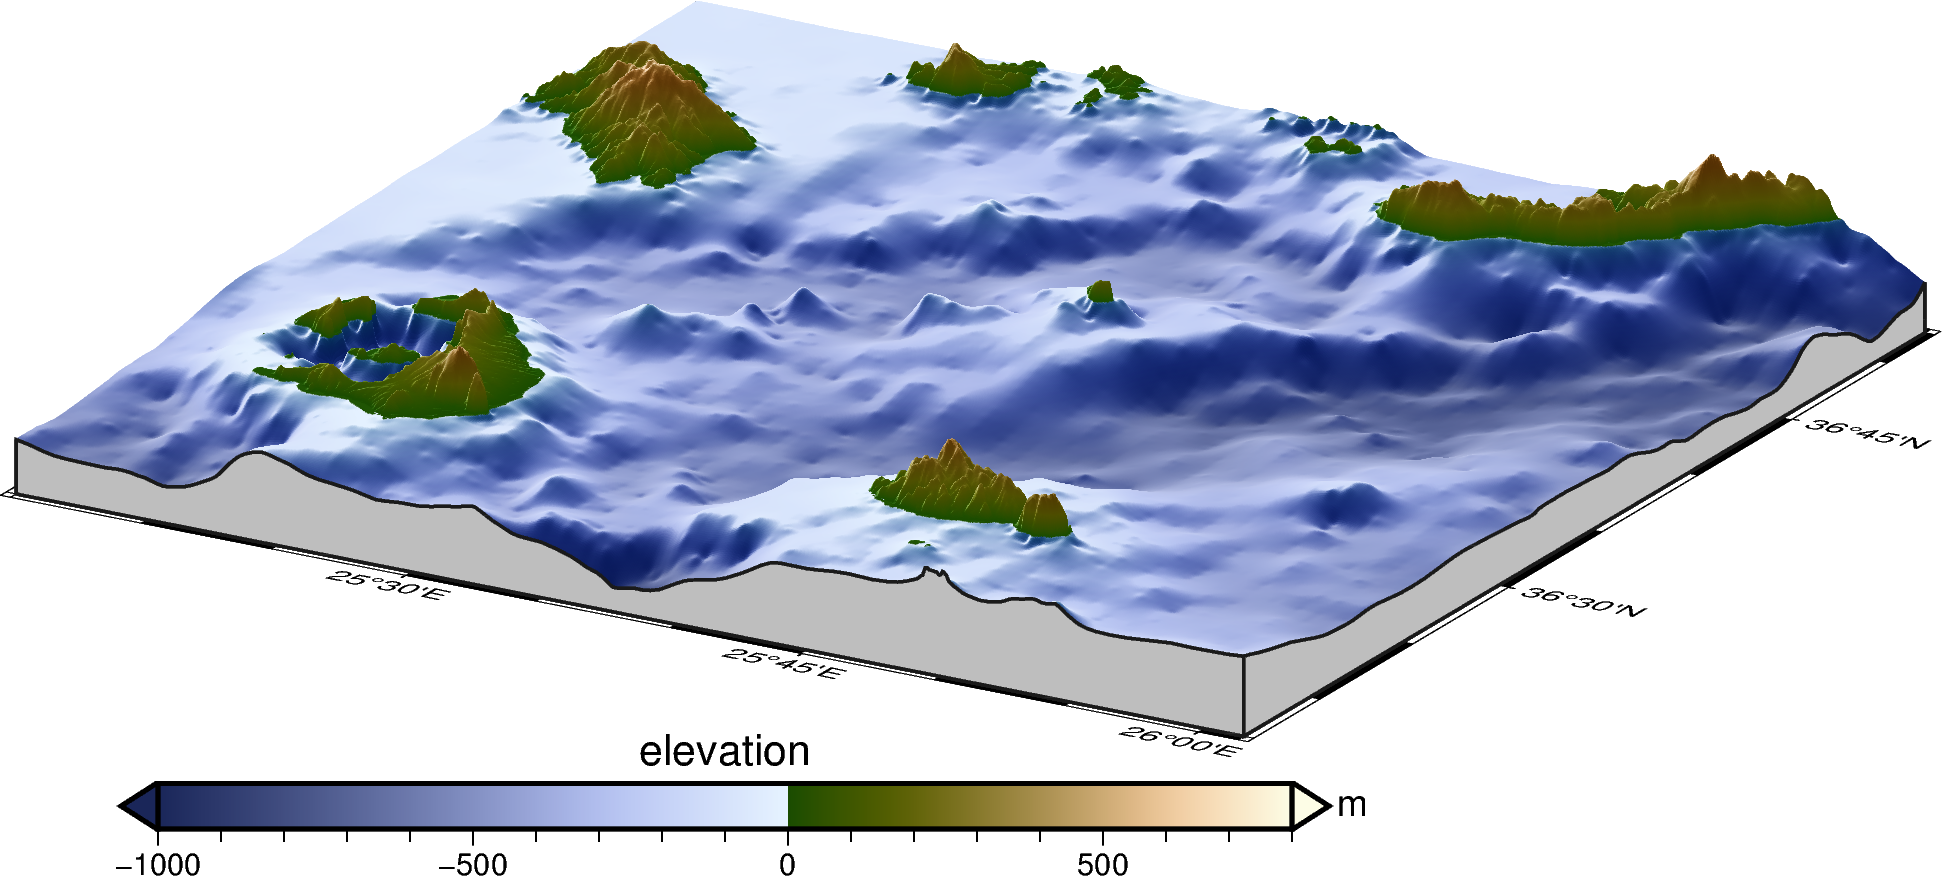
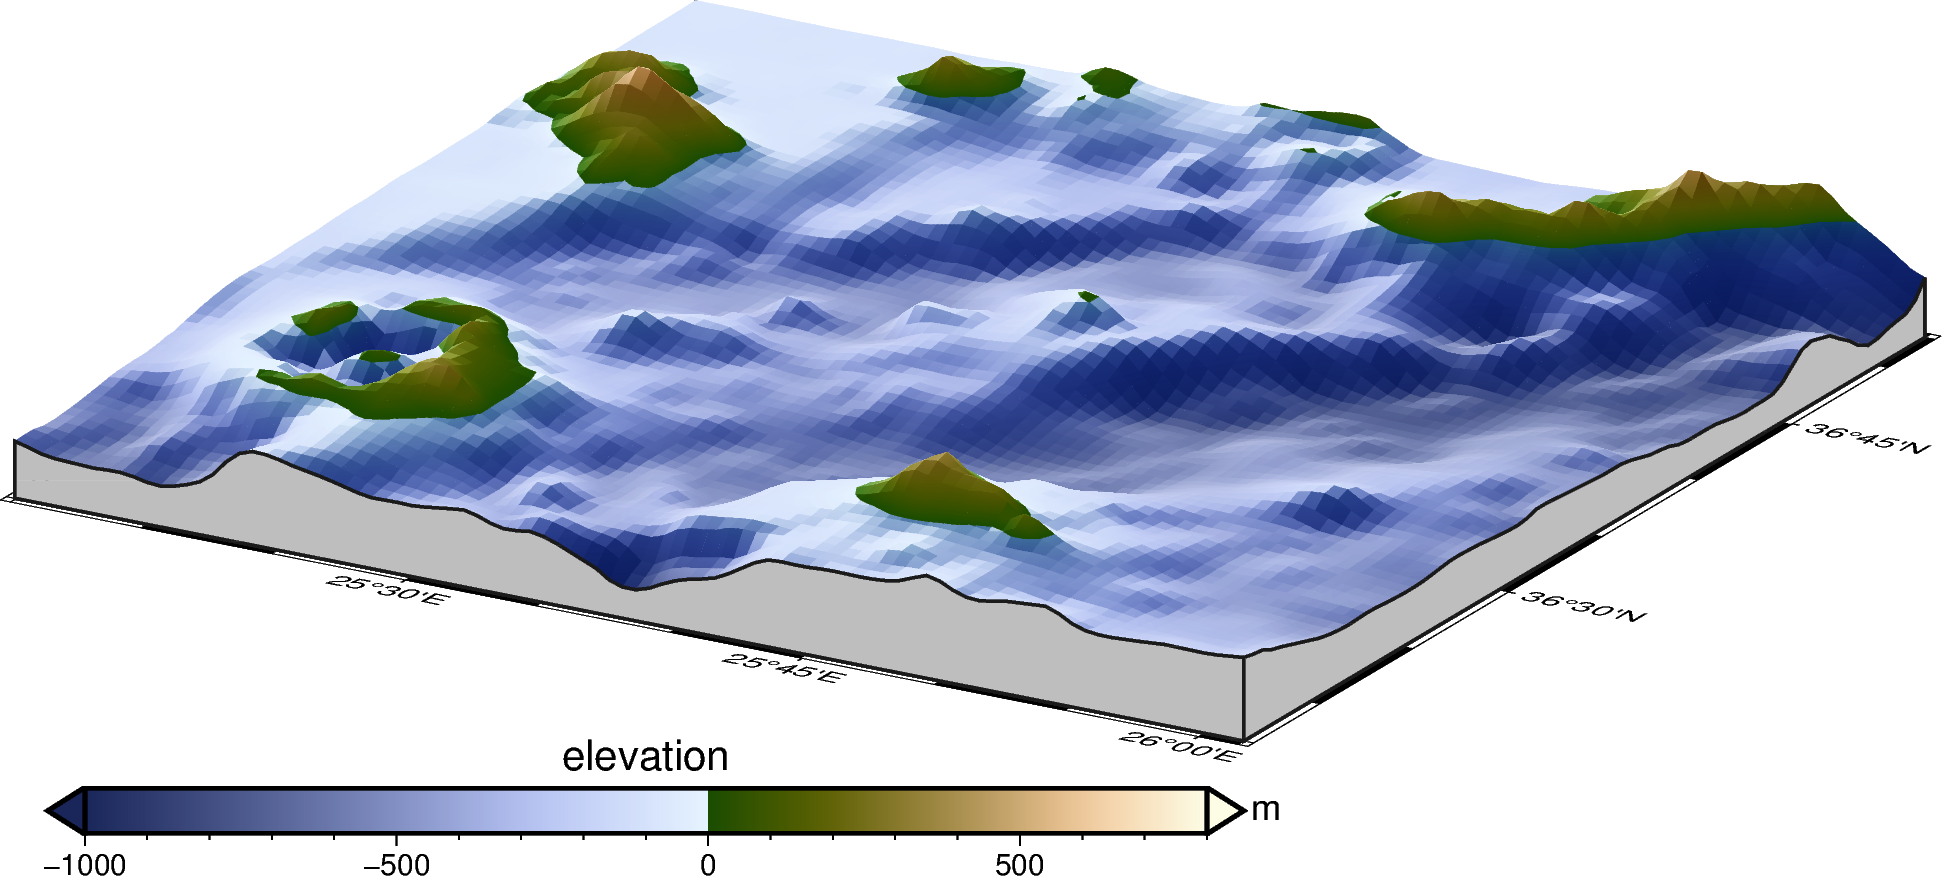
Use Position class | Reduce resolution for surface plot

diff --git a/015_santorini_earthquakes/santorini_earthquakes.py b/015_santorini_earthquakes/santorini_earthquakes.py
@@ -111,8 +111,8 @@ df_eq = df_eq_raw[df_eq_raw["date_time"] >= start_date_data]
 # Create plots for elevation
 # -----------------------------------------------------------------------------
 # Download elevation grid
-grd_ele = gmt.datasets.load_earth_relief(region=region_ele, resolution="15s")
-grd_surf = gmt.datasets.load_earth_relief(region=region_surf, resolution="03s")
+grd_ele = gmt.datasets.load_earth_relief(region=region_ele, resolution="30s") # 15s
+grd_surf = gmt.datasets.load_earth_relief(region=region_surf, resolution="30s") # 03s
 
 # -----------------------------------------------------------------------------
 # 2-D map
@@ -122,7 +122,7 @@ fig_ele.basemap(projection="M12c", region=region_ele, frame=["WSne", "a1f0.5"])
 gmt.makecpt(cmap="oleron", series=[-1000, 2000])
 fig_ele.grdimage(grid=grd_ele, cmap=True, shading=True)
 fig_ele.colorbar(
-    frame=["xa500f100+lElevation", "y+lm"],
+    frame=["xa500f100+lelevation", "y+lm"],
     position=Position("BC", cstype="outside", offset=("0c", "1.3c")),
     bg_triangle=True,
     fg_triangle=True,
@@ -144,7 +144,7 @@ fig_name = "santorini_map_elevation"
 print(fig_name)
 
 # -----------------------------------------------------------------------------
-# 3-D plot - takes some time
+# 3-D plot - takes some time for higher resolutions
 fig_surf = gmt.Figure()
 fig_surf.basemap(
     projection="M12c",
@@ -164,12 +164,21 @@ fig_surf.grdview(
     plane="-1000+ggrey",
     facade_pen="gray10",
 )
-fig_surf.colorbar(frame=["xa500f100+lElevation", "y+lm"], position="+e0.3c+o0c/0.4c+ml")
+fig_surf.colorbar(
+    frame=["xa500f100+lelevation", "y+lm"],
+    position=Position("BC", cstype="outside", anchor="TR", offset=("-2c", "0.4c")),
+    length="9.5c",
+    orientation="horizontal",
+    bg_triangle=True,
+    fg_triangle=True,
+    triangle_height="0.3c",
+    move_text="label",
+)
 
 fig_surf.show()
 fig_name = "santorini_surface_elevation"
 # for ext in ["png"]:  # "pdf", "eps"
-    # fig_surf.savefig(fname=f"{path_out}/{fig_name}.{ext}")
+#     fig_surf.savefig(fname=f"{path_out}/{fig_name}.{ext}")
 print(fig_name)
 
 
@@ -233,9 +242,7 @@ for i_day, day in enumerate(rrule(DAILY, dtstart=start_date_plot, until=end_date
             z_label = "negative depth / km"
 
 # -----------------------------------------------------------------------------
-        fig2d.basemap(
-            projection="M12c", region=region, frame=["af", f"{frame}+t{title}"]
-        )
+        fig2d.basemap(projection="M12c", region=region, frame=["af", f"{frame}+t{title}"])
         fig2d.coast(land=color_land, water=color_water, shorelines=f"1/0.5p,{color_sl}")
 
         # Mark Santorini
@@ -245,7 +252,11 @@ for i_day, day in enumerate(rrule(DAILY, dtstart=start_date_plot, until=end_date
         with gmt.config(FONT="15p"):
             fig2d.colorbar(
                 frame=f"x{cb_x_afg}+l{cb_label}",
-                position="+o0c/1.5c+e0.3c+ml",
+                position=Position("BC", cstype="outside", offset=("0c", "1.5c")),
+                bg_triangle=True,
+                fg_triangle=True,
+                triangle_height="0.3c",
+                move_text="label",
                 cmap=cmap_fill,
             )
         fig2d.plot(
@@ -282,7 +293,10 @@ for i_day, day in enumerate(rrule(DAILY, dtstart=start_date_plot, until=end_date
         )
         fig3d.colorbar(
             frame=f"x{cb_x_afg}+l{cb_label}",
-            position="+o0c/0.8c+e0.3c+ml",
+            bg_triangle=True,
+            fg_triangle=True,
+            triangle_height="0.3c",
+            move_text="label",
             cmap=cmap_fill,
         )
 
